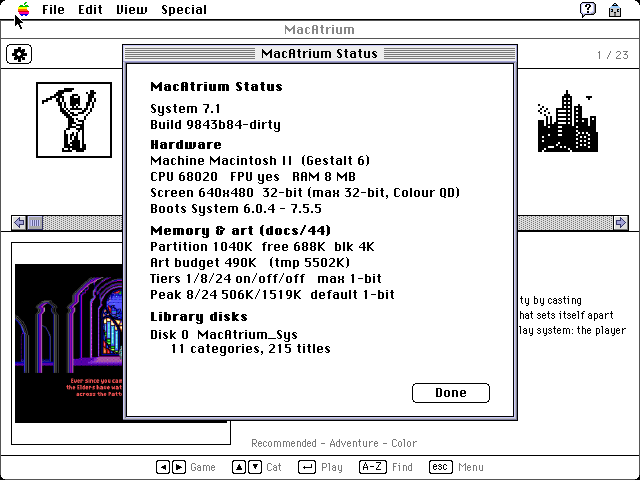
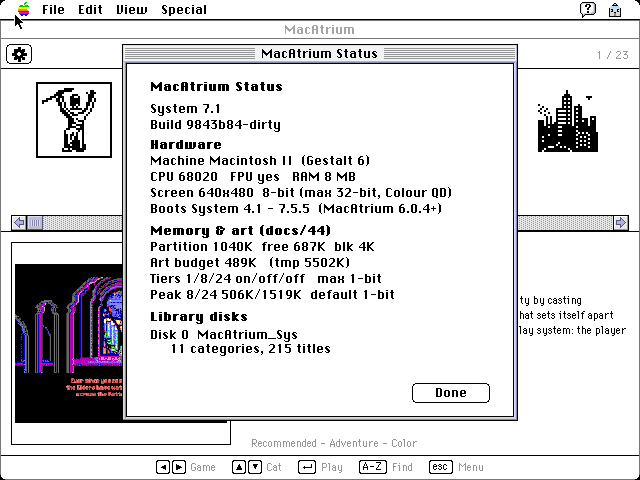
status: report the machine OS floor, not our envelope
The Boots line printed gEnv.minOSbcd, which is the model floor already clamped to MacAtrium 6.0.4 envelope (the Gestalt Manager floor env_probe needs) - so a Mac II read Boots System 6.0.4 - 7.5.5, presenting OUR limit as a hardware fact. models.jsonl already carries the truth (System 4.1), so no data was missing; the readout now shows the machine real floor and names ours only when higher: Boots System 4.1 - 7.5.5 (MacAtrium 6.0.4+). The ceiling needs no such care - the tier max IS the CPU hardware ceiling.

Also document the launcher fast-loop trap in docs/40: install-all-systems writes the binary verbatim, so it must be preceded by atrium size --pref/--min to re-apply the config app_mem_kb. Skipping it reverts to the built-in 2048/1024 default and changes the art budget (measured partition 1040K -> 2064K), making the run unrepresentative of the shipped disk. Evidence screenshot re-captured with the correct partition.

diff --git a/src/main.c b/src/main.c
@@ -1778,10 +1778,23 @@ static void st_draw(WindowPtr dlg)
     st_line(ST_LM, y, line); y = (short)(y + 16);
 
     {
+        const MacModel *m = model_by_id(gEnv.machineID);
         char v[12];
+        /* Show the MACHINE's true range — a Mac II boots back to System 4.1, and the
+         * model table carries that. gEnv.minOSbcd is the same floor already clamped to
+         * MacAtrium's 6.0.4 envelope (the Gestalt Manager floor env_probe needs), which
+         * is OUR limit, not the hardware's; printing it unqualified reads like a
+         * hardware fact. So print the real floor and name ours only when it is higher.
+         * The ceiling needs no such care: the tier max IS the CPU's hardware ceiling. */
+        long floor = (m && m->minOSbcd) ? (long)m->minOSbcd : gEnv.minOSbcd;
         strcpy(line, "Boots System ");
-        env_os_version(gEnv.minOSbcd, v); strcat(line, v); strcat(line, " - ");
+        env_os_version(floor, v);         strcat(line, v); strcat(line, " - ");
         env_os_version(gEnv.maxOSbcd, v); strcat(line, v);
+        if (floor < gEnv.minOSbcd) {                   /* we gate higher than the metal */
+            strcat(line, "  (MacAtrium ");
+            env_os_version(gEnv.minOSbcd, v); strcat(line, v);
+            strcat(line, "+)");
+        }
         st_line(ST_LM, y, line); y = (short)(y + 22);
     }
 

diff --git a/docs/40-hardware-compatibility-gating.md b/docs/40-hardware-compatibility-gating.md
@@ -162,13 +162,28 @@ Both halves were checked on Snow (Mac II ROM + Macintosh Display Card 8•24), s
   UI chain, end to end. It flags *only* the CPU, correctly: that Mac II has an FPU, 8 MB, and a 32-bit
   screen, so `fpu`/`minMem`/`minDepth` are all satisfied.
 - **[40-status-hardware-macii.png](evidence/40-status-hardware-macii.png)** — the Status readout:
-  `Machine Macintosh II (Gestalt 6) / CPU 68020 / FPU yes / RAM 8 MB / Screen 640x480 32-bit (max
-  32-bit, Colour QD) / Boots System 6.0.4 - 7.5.5`. The last line verifies both the tier ceiling
-  (68020 → 7.5.5) and the model-floor clamp (the Mac II's table row says System 4.1, clamped up to the
-  6.0.4 envelope).
+  `Machine Macintosh II (Gestalt 6) / CPU 68020 / FPU yes / RAM 8 MB / Screen 640x480 8-bit (max
+  32-bit, Colour QD) / Boots System 4.1 - 7.5.5 (MacAtrium 6.0.4+)`.
 
-A launcher-only change does **not** need an image rebuild — `atrium install-all-systems --image
-<disk> --launcher build/MacAtrium.bin` swaps the binary into every System Folder in seconds.
+The "Boots" line reports the **machine's** range, not ours: a Mac II really does boot back to System
+4.1, and `models.jsonl` carries that. `gEnv.minOSbcd` is the same floor clamped to MacAtrium's 6.0.4
+envelope — printing *that* unqualified would read like a hardware limit when it is our own, so the
+readout shows the true floor and names ours in parentheses only when it sits higher. The ceiling needs
+no such care: the tier max IS the CPU's hardware ceiling (68020 → 7.5.5).
+
+### Re-running it
+
+A launcher-only change does **not** need an image rebuild (~4 min). Build, then:
+
+```sh
+atrium size --launcher build/MacAtrium.bin --pref 1024 --min 768   # match the config's app_mem_kb
+atrium install-all-systems --image <disk>.hda --launcher build/MacAtrium.bin
+```
+
+**The `size` step is not optional.** `install-all-systems` writes the binary verbatim, while an
+`atrium image` build patches the `'SIZE'` (-1) partition from `app_mem_kb` — so a bare swap silently
+reverts the launcher to its built-in 2048/1024 default, inflating the art budget and changing which
+art tiers ArtCaps enables (measured: partition 1040K → 2064K, tiers `on/off/off` → `on/on/off`).
 
 ## Cross-references
 